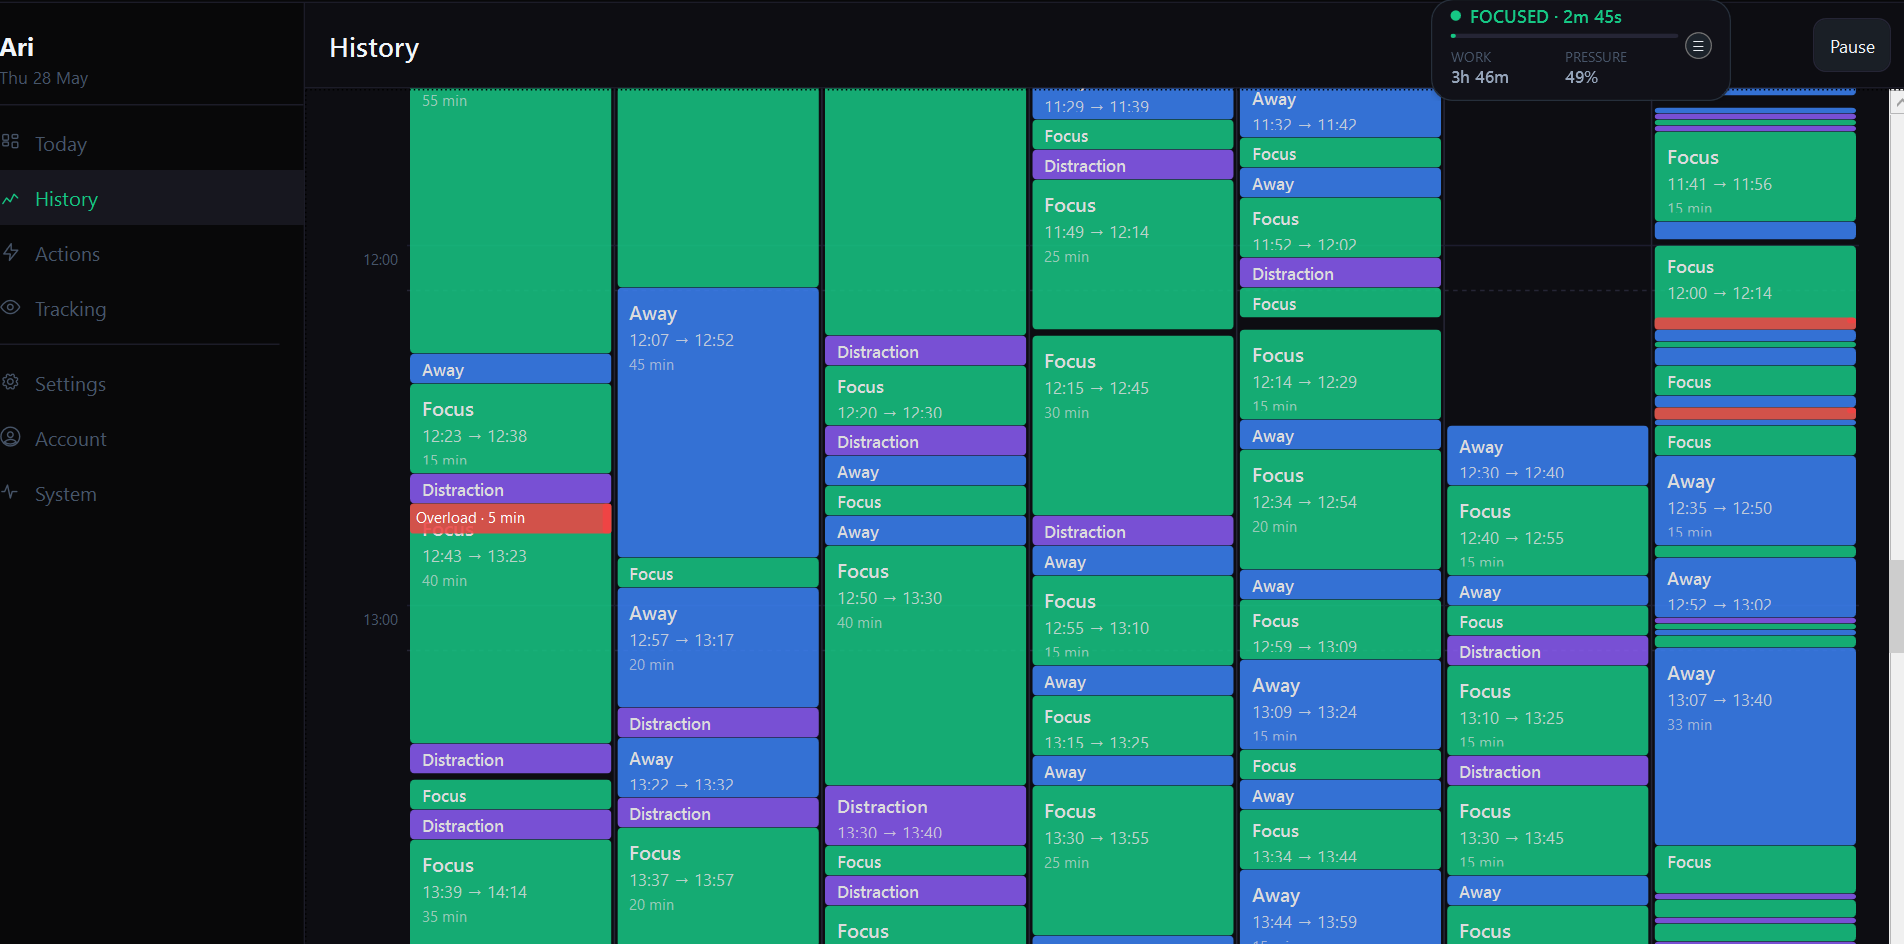
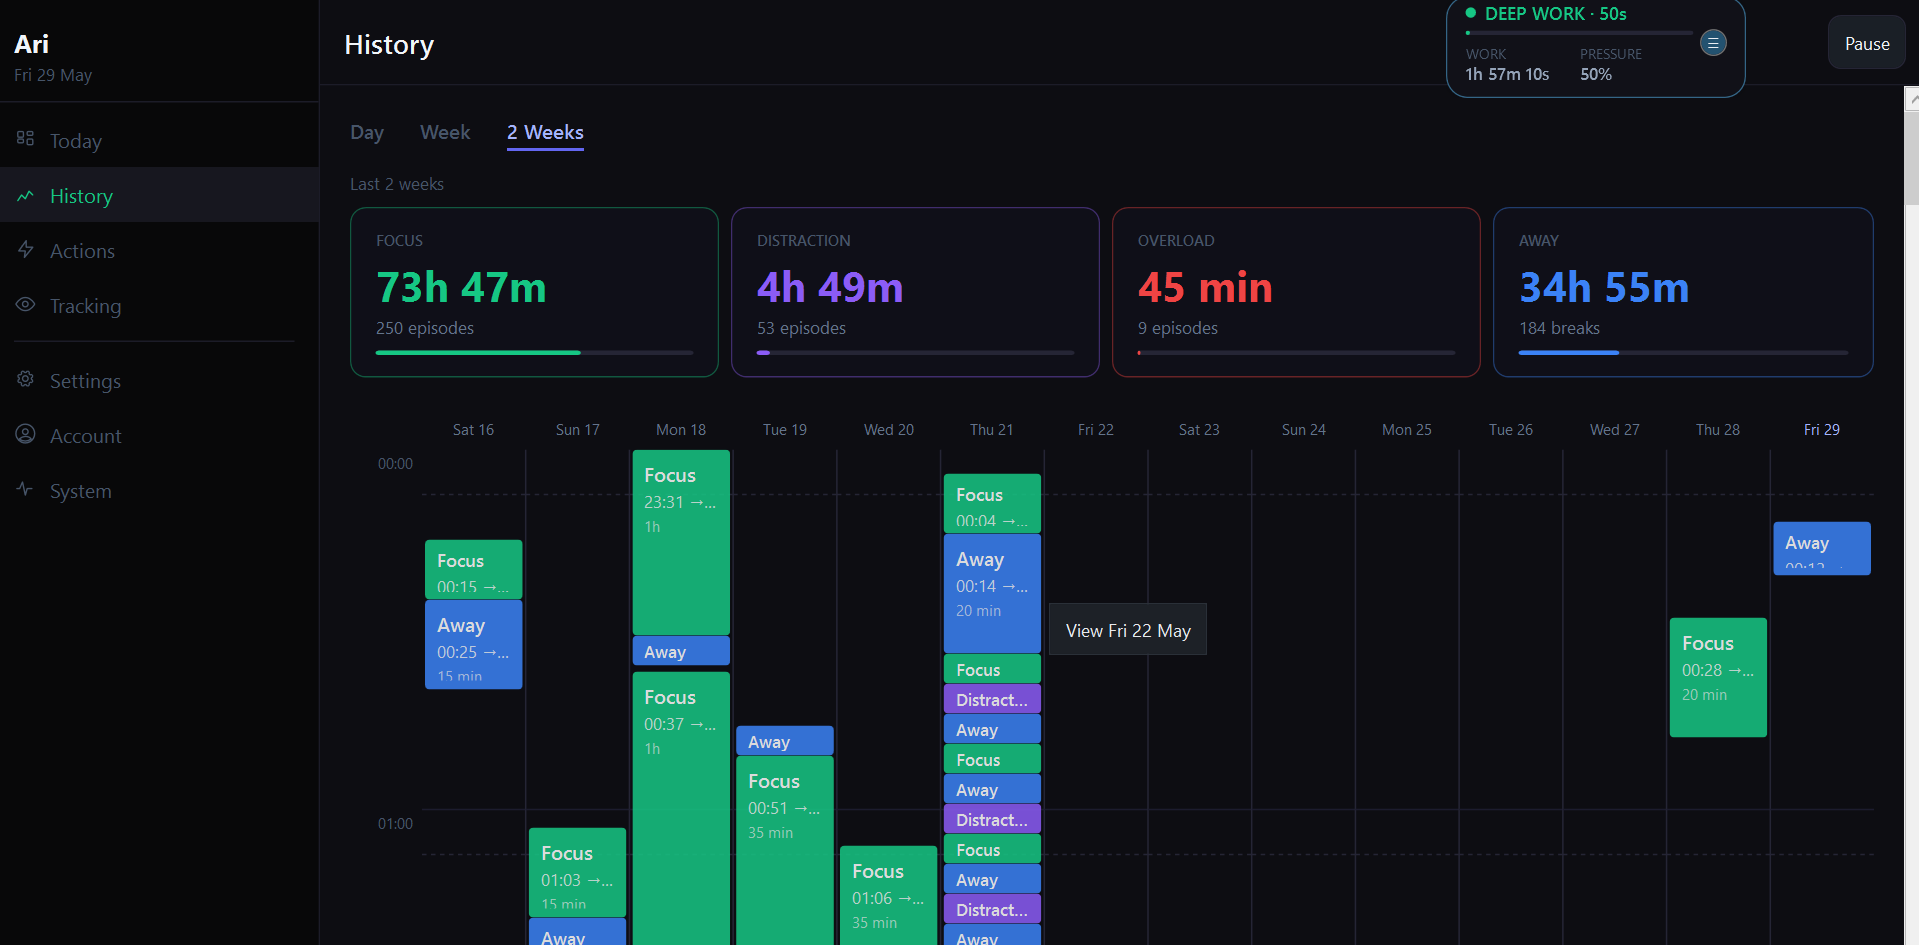
Replace history screenshot and add edge-fade masks to all images
- Replace history.png with new 1919x945 screenshot
- Widget: elliptical radial-gradient mask fades all edges — hides
  gold glow corner artefacts from the crop
- Digest: linear gradient fades bottom to transparent — hides clip line
- History: horizontal fade left 5% and right 5% — content bleeds off
  screen naturally, no sharp cut visible

diff --git a/src/styles/global.css b/src/styles/global.css
@@ -1290,6 +1290,48 @@ body::before {
   50%       { transform: translateY(6px); }
 }
 
+/* ── IMAGE EDGE FADE MASKS ──────────────────────────────────── */
+
+/* Widget: elliptical fade — hides the gold-glow corner artefacts */
+.widget-standalone-img {
+  -webkit-mask-image: radial-gradient(ellipse 84% 80% at 50% 50%, black 38%, transparent 100%);
+  mask-image: radial-gradient(ellipse 84% 80% at 50% 50%, black 38%, transparent 100%);
+}
+
+/* Digest: fade bottom (hides crop line) + subtle side fade */
+.digest-clip-box {
+  -webkit-mask-image: linear-gradient(
+    to bottom,
+    black 0%,
+    black 60%,
+    transparent 100%
+  );
+  mask-image: linear-gradient(
+    to bottom,
+    black 0%,
+    black 60%,
+    transparent 100%
+  );
+}
+
+/* History: fade left and right sides — content bleeds off screen naturally */
+#history .screenshot-img {
+  -webkit-mask-image: linear-gradient(
+    to right,
+    transparent 0%,
+    black 5%,
+    black 95%,
+    transparent 100%
+  );
+  mask-image: linear-gradient(
+    to right,
+    transparent 0%,
+    black 5%,
+    black 95%,
+    transparent 100%
+  );
+}
+
 /* ── RESPONSIVE ─────────────────────────────────────────────── */
 @media (max-width: 1024px) {
   .site-nav { padding: 18px 32px; }
